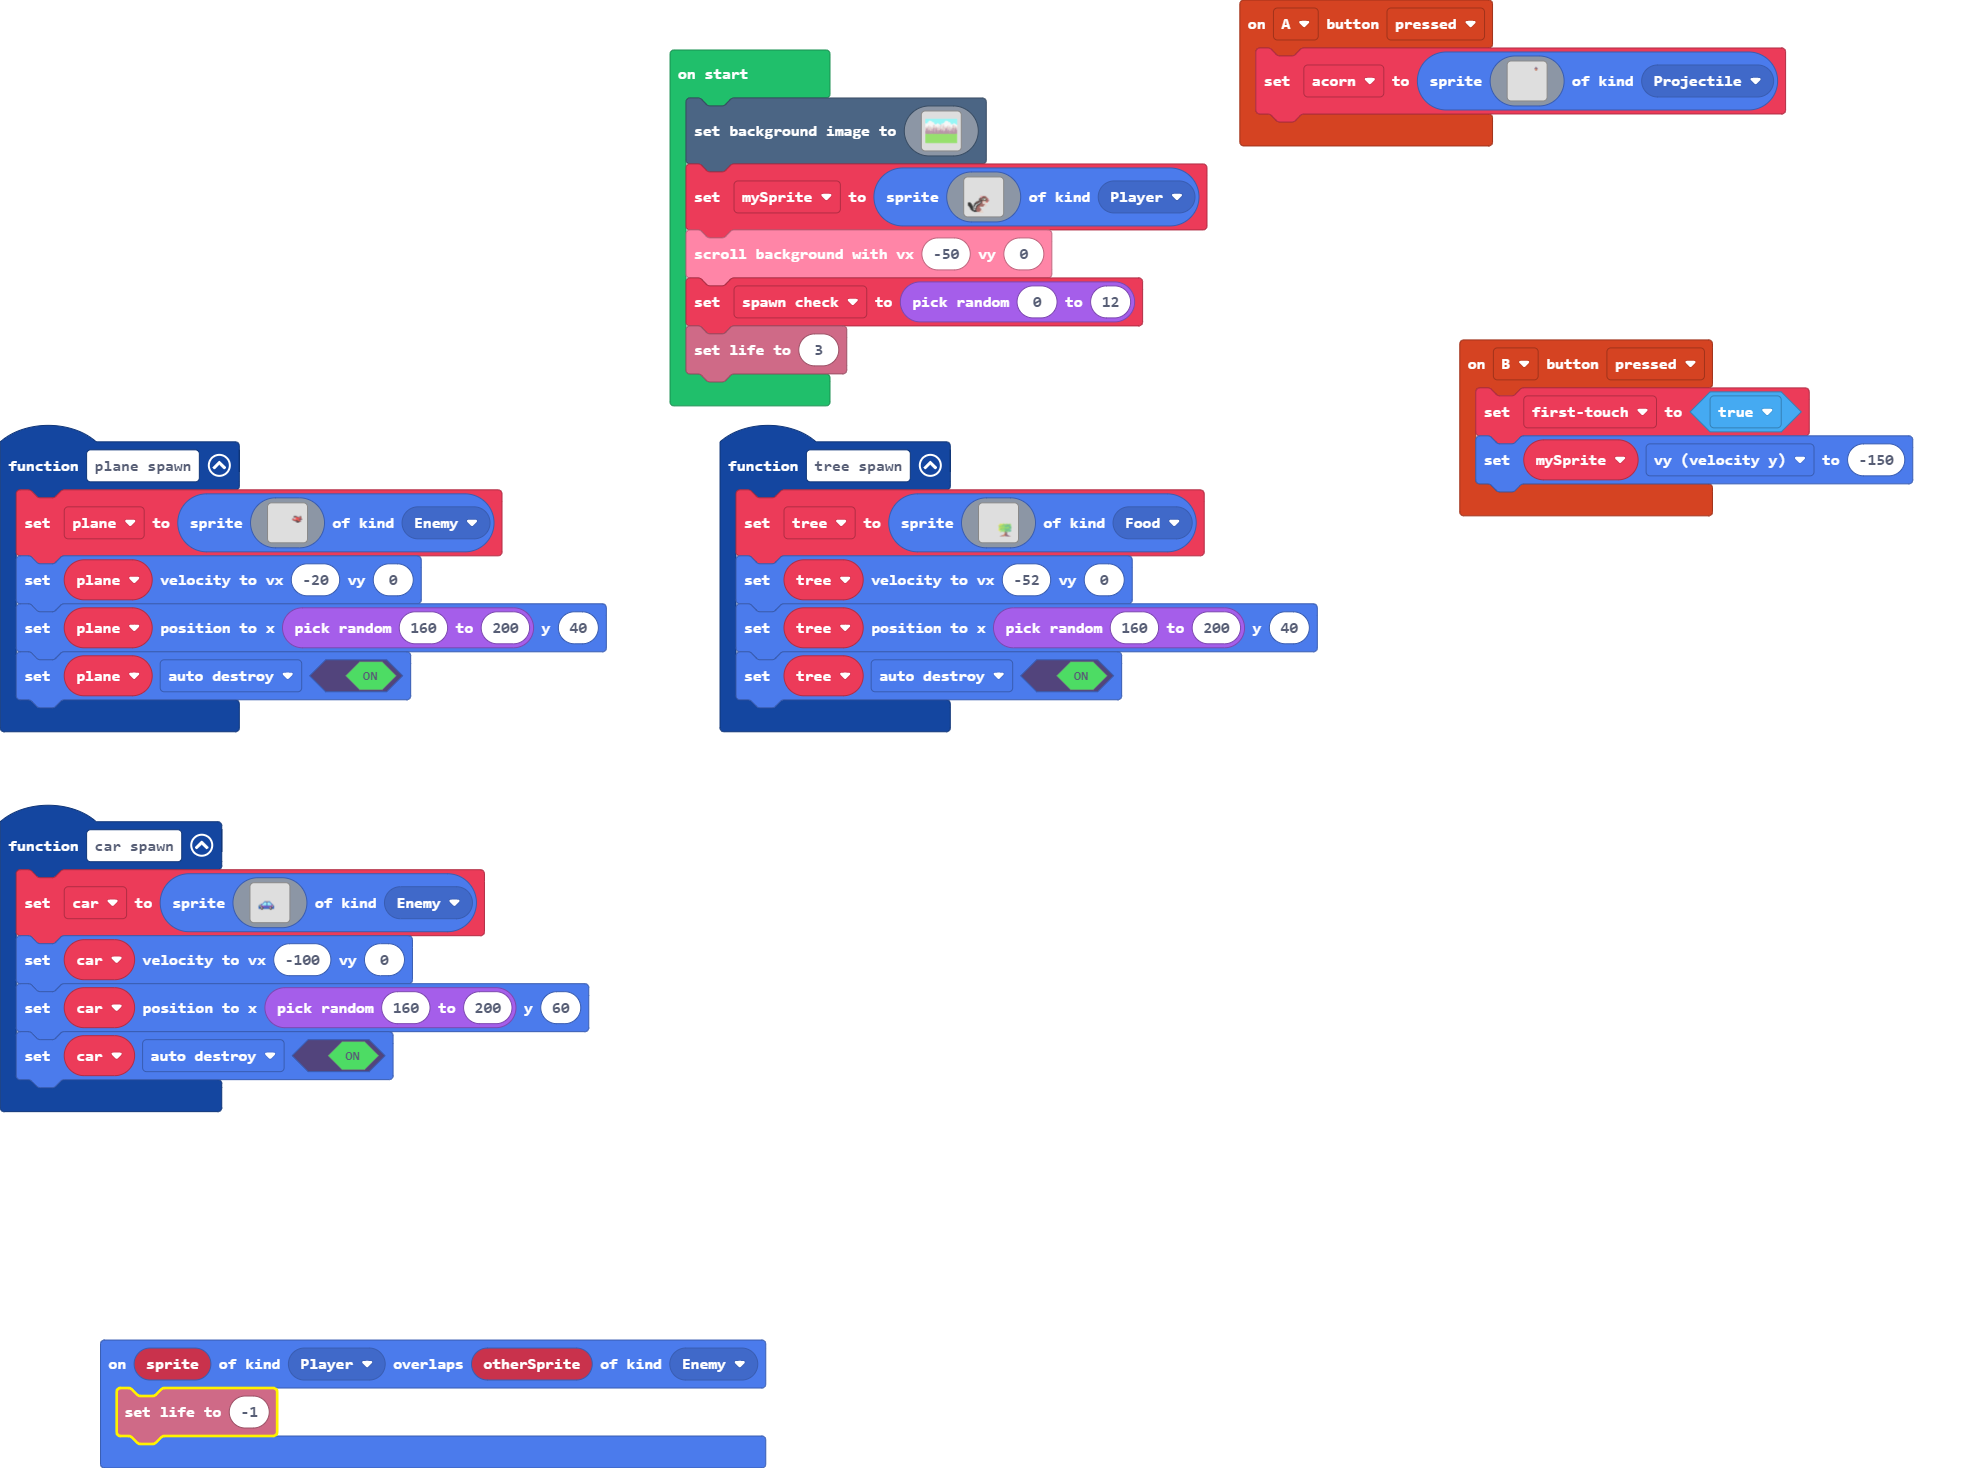
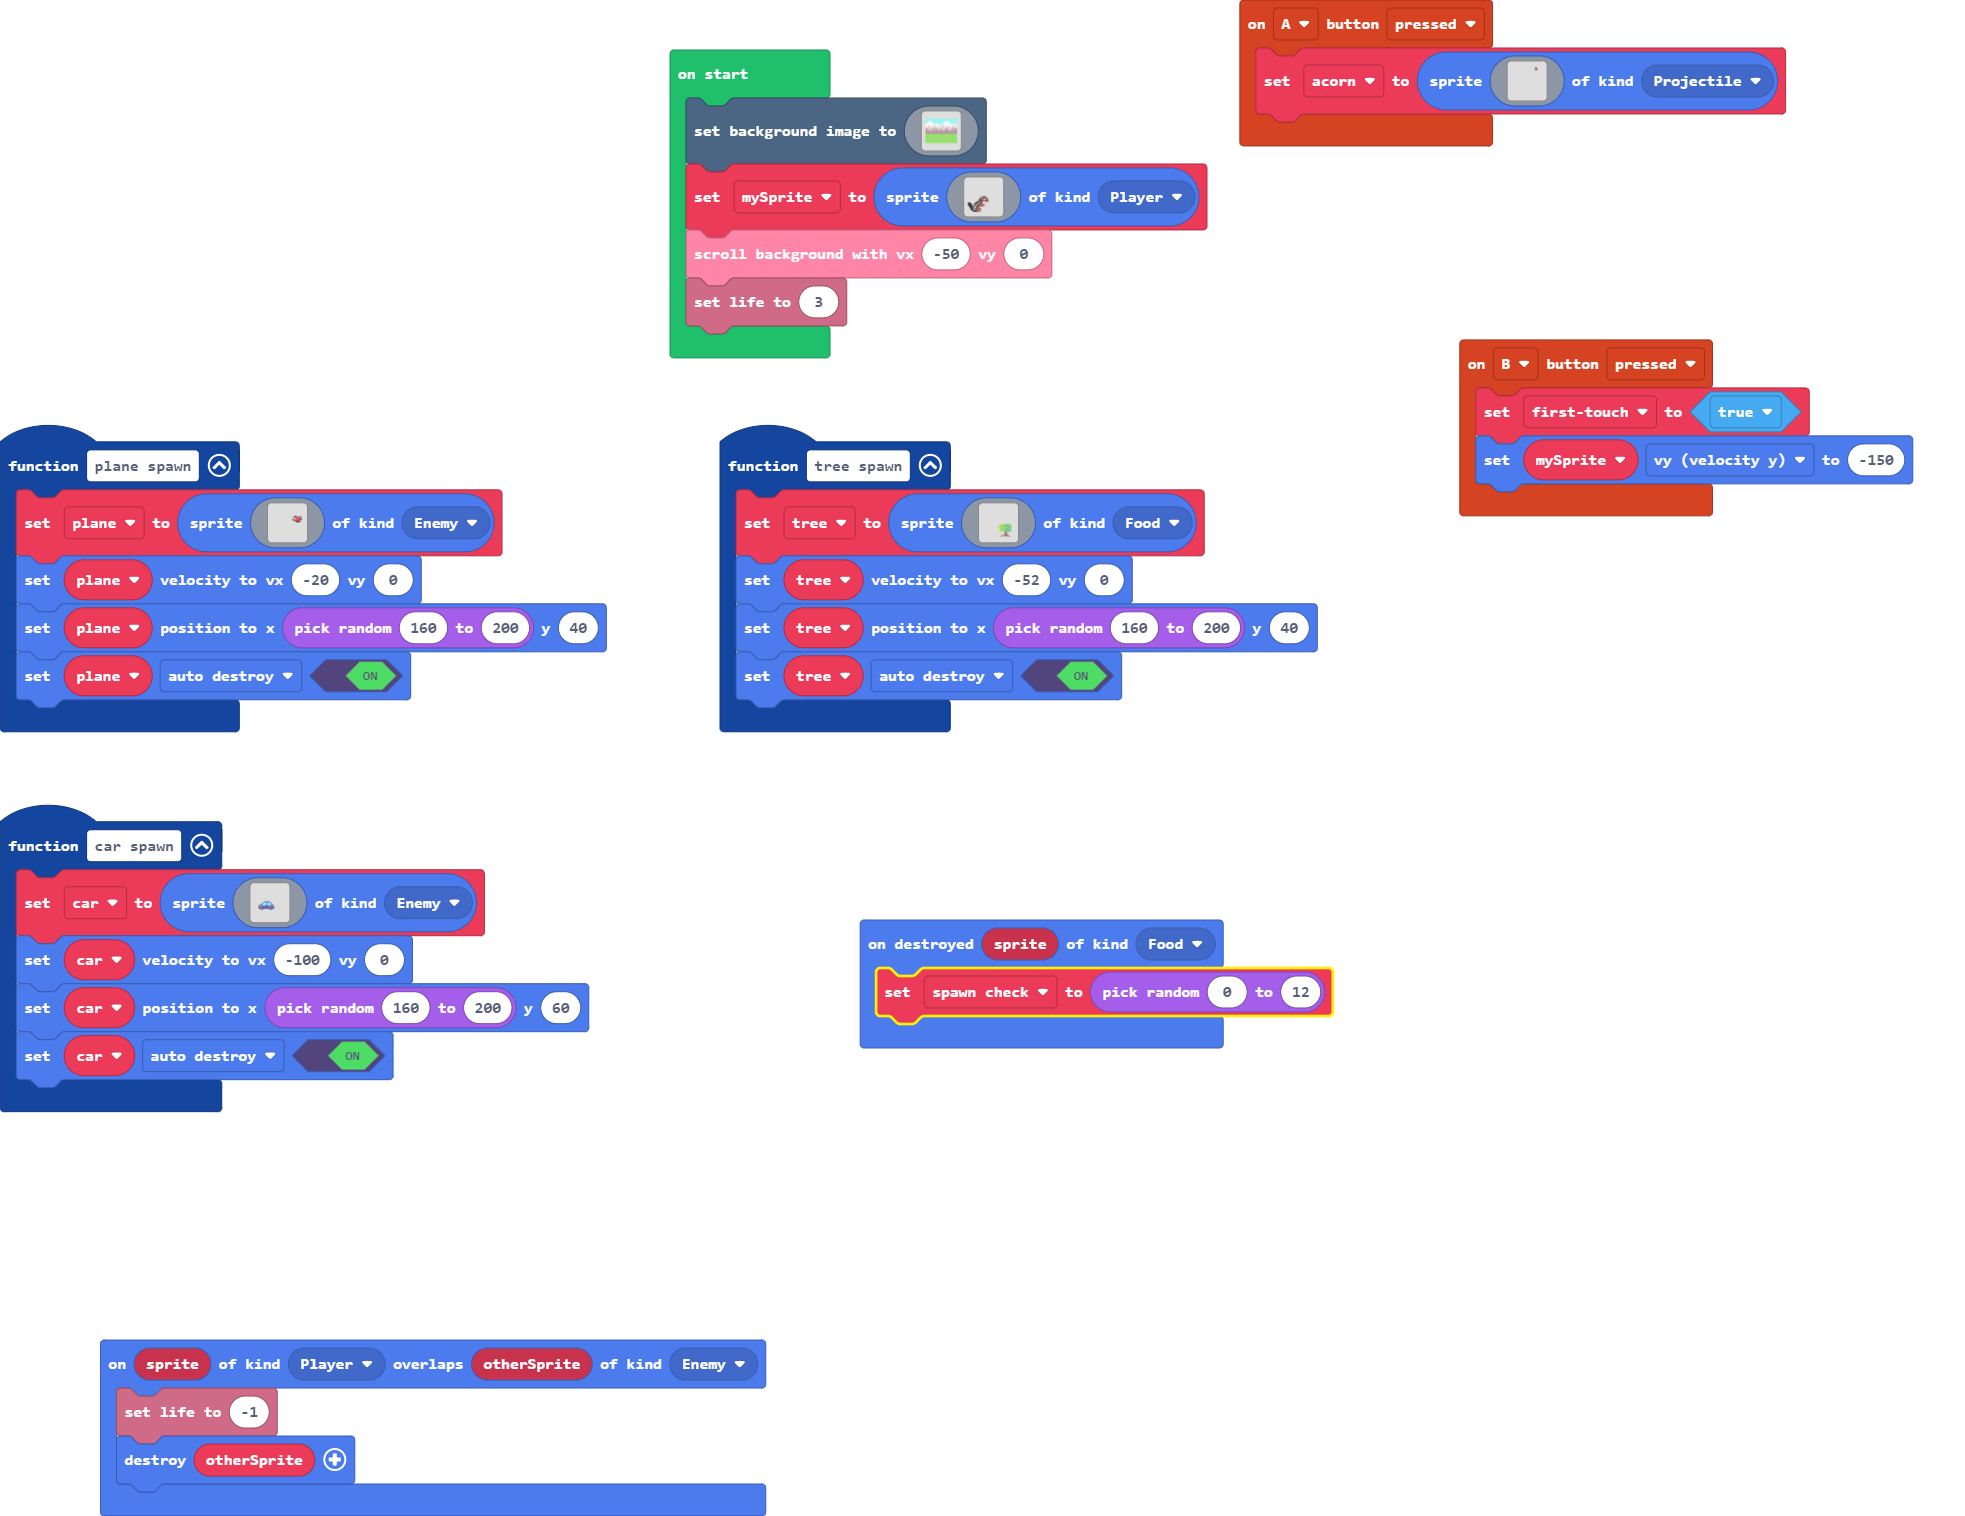
Update main.blocks, main.ts

diff --git a/main.ts b/main.ts
@@ -95,6 +95,9 @@ function car_spawn () {
     car.setPosition(randint(160, 200), 60)
     car.setFlag(SpriteFlag.AutoDestroy, true)
 }
+sprites.onDestroyed(SpriteKind.Food, function (sprite) {
+    spawn_check = randint(0, 12)
+})
 controller.A.onEvent(ControllerButtonEvent.Pressed, function () {
     acorn = sprites.create(img`
         ................................................................................
@@ -268,9 +271,11 @@ function plane_spawn () {
 }
 sprites.onOverlap(SpriteKind.Player, SpriteKind.Enemy, function (sprite, otherSprite) {
     info.setLife(-1)
+    otherSprite.destroy()
 })
 let plane: Sprite = null
 let acorn: Sprite = null
+let spawn_check = 0
 let car: Sprite = null
 let firsttouch = false
 let tree: Sprite = null
@@ -399,5 +404,4 @@ scene.setBackgroundImage(img`
     `)
 mySprite = sprites.create(assets.image`Squirrel`, SpriteKind.Player)
 scroller.scrollBackgroundWithSpeed(-50, 0)
-let spawn_check = randint(0, 12)
 info.setLife(3)
